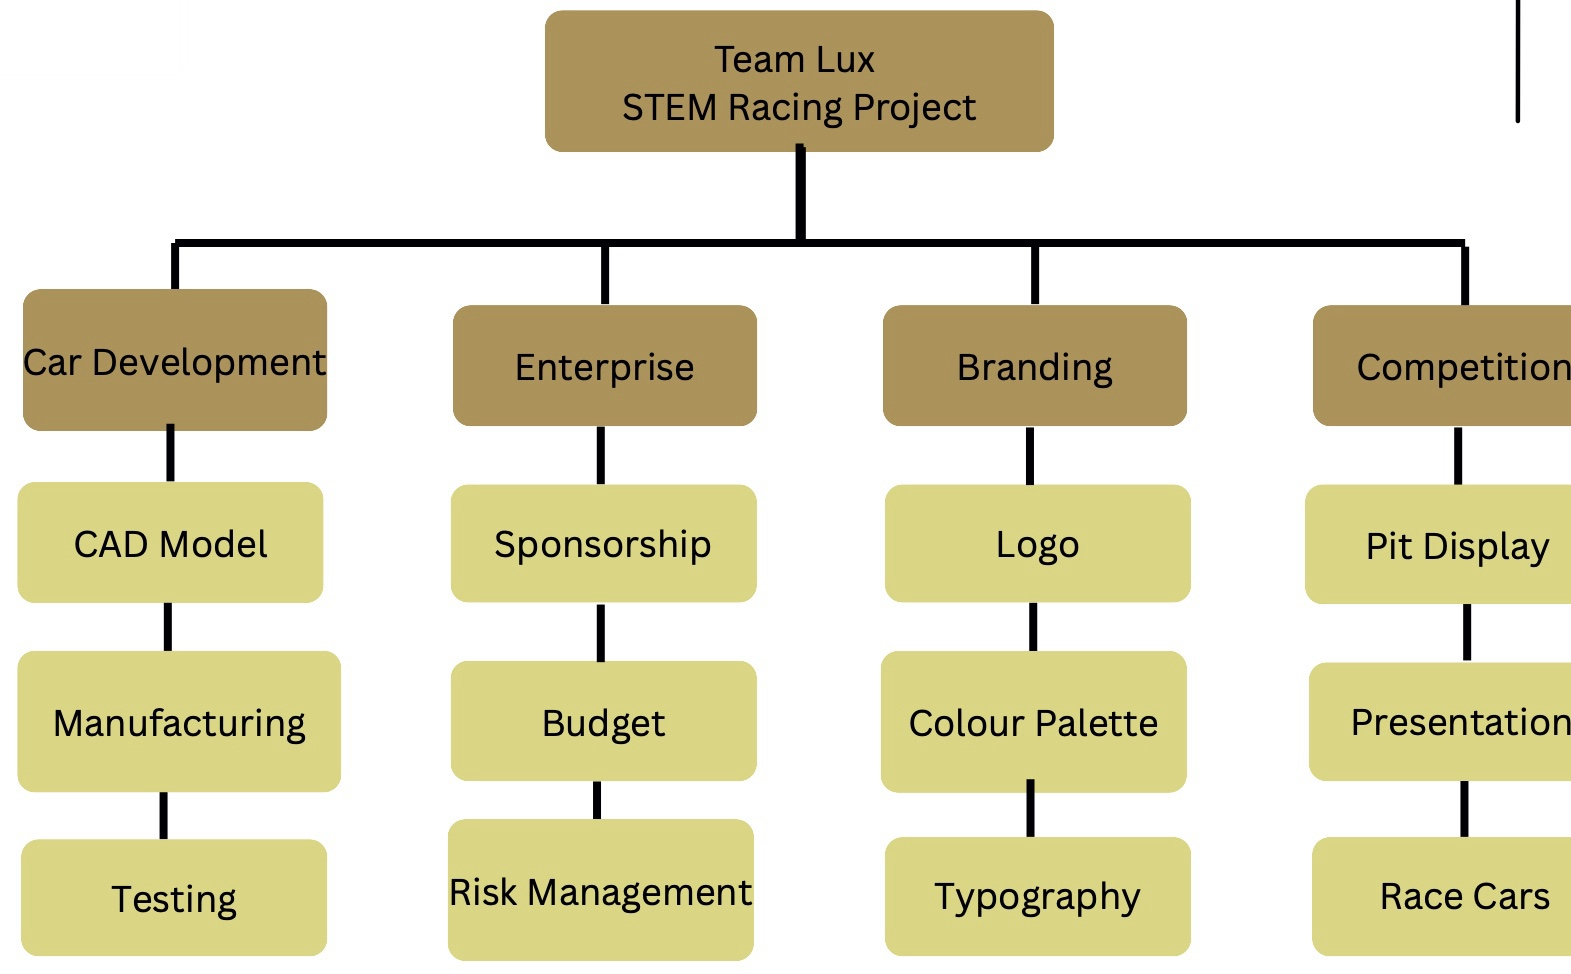
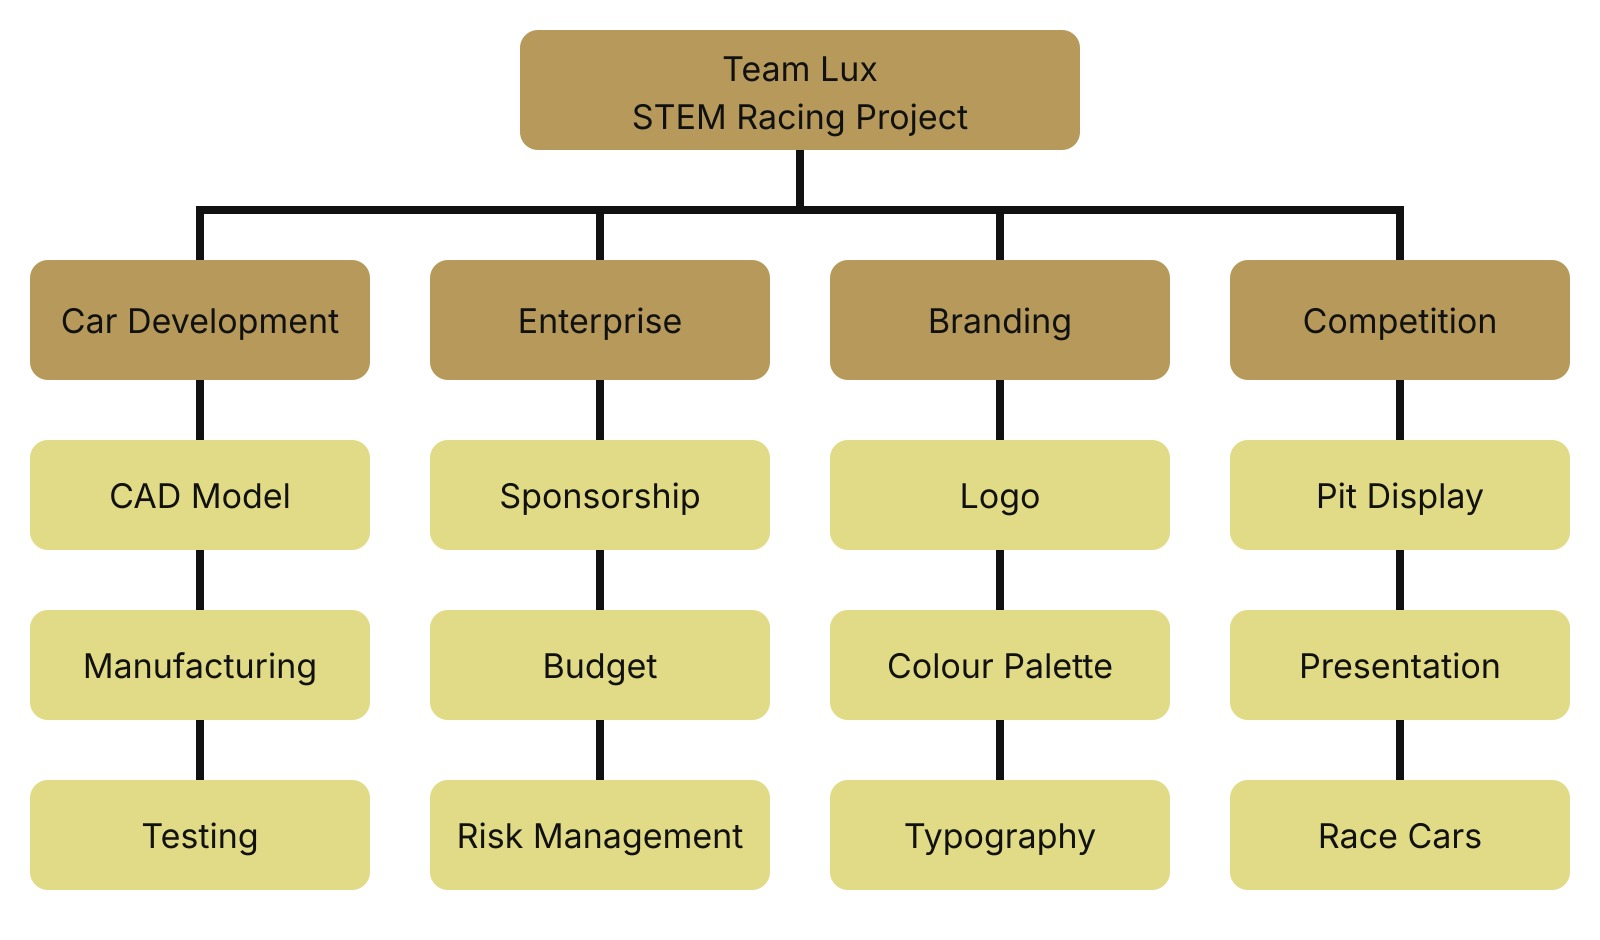
Use Nationals photos, enlarge enterprise figures, redraw work breakdown chart

diff --git a/src/styles/global.css b/src/styles/global.css
@@ -139,6 +139,12 @@ p { margin: 0 0 var(--s3); }
 .prose figure { margin: var(--s5) 0; }
 .prose figure img { width: 100%; border-radius: 6px; background: var(--hover); cursor: zoom-in; }
 .prose figcaption { margin-top: var(--s2); color: var(--muted); font-size: 0.8125rem; line-height: 1.5; }
+/* "[wide]" figures break out of the 640px column on desktop (see remark-figures.mjs). */
+@media (min-width: 700px) {
+  .prose figure.wide, .prose .gallery.wide {
+    width: min(1000px, 100vw - 48px); position: relative; left: 50%; transform: translateX(-50%);
+  }
+}
 .gallery { display: flex; gap: var(--s2); margin: var(--s5) 0; align-items: flex-start; }
 .gallery figure { margin: 0; min-width: 0; }
 @media (max-width: 640px) {

diff --git a/src/content/projects/stem-racing-enterprise.md b/src/content/projects/stem-racing-enterprise.md
@@ -46,8 +46,9 @@ Four work streams (Car Development, Enterprise, Branding, Competition), each bro
 
 ![Work breakdown structure: Team Lux project split into Car Development, Enterprise, Branding and Competition, each with three tasks](../../assets/projects/stem-racing/work-breakdown.jpg "Work breakdown structure.")
 
-![Gantt chart with eight phases from research and planning in November to final preparation in April](../../assets/projects/stem-racing/gantt.jpg "Season timeline: four cars across eight phases.")
-![RACI matrix assigning responsible, accountable, consulted and informed roles for each deliverable](../../assets/projects/stem-racing/raci-matrix.png "RACI matrix: one accountable owner per deliverable.")
+![Gantt chart with eight phases from research and planning in November to final preparation in April](../../assets/projects/stem-racing/gantt.jpg "[wide] Season timeline: four cars across eight phases.")
+
+![RACI matrix assigning responsible, accountable, consulted and informed roles for each deliverable](../../assets/projects/stem-racing/raci-matrix.png "[wide] RACI matrix: one accountable owner per deliverable.")
 
 ### Risk register
 
@@ -55,7 +56,7 @@ Nine risks rated by likelihood and impact. The top two, manufacturing delays and
 
 It was tested once: a rules mix-up ruined a regulation foam block with no spare in stock. Our title sponsor, GH Precision, sourced a replacement the same day, and we were cutting again within hours.
 
-![Risk register table of nine risks with ratings from 5 to 8 and preventative measures](../../assets/projects/stem-racing/risk-register.jpg "Risk register.")
+![Risk register table of nine risks with ratings from 5 to 8 and preventative measures](../../assets/projects/stem-racing/risk-register.jpg "[wide] Risk register.")
 
 ### Sponsorship: offering value, not asking for money
 
@@ -65,8 +66,8 @@ It was tested once: a rules mix-up ruined a regulation foam block with no spare 
 
 The result: $4,000 in cash and $7,600 in kind from more than 15 sponsors, plus software and CFD mentorship.
 
-![Bar chart: projected project cost of over 14,000 dollars before in-kind sponsorship and about 2,000 dollars after](../../assets/projects/stem-racing/in-kind-impact.jpg "Projected cost before and after in-kind sponsorship.")
-![Team Lux sponsorship package, website sponsor tiers and Instagram sponsor posts on laptop and phone mockups](../../assets/projects/stem-racing/sponsorship-materials.jpg "Sponsorship package, website tiers, and sponsor posts.")
+![Bar chart: projected project cost of over 14,000 dollars before in-kind sponsorship and about 2,000 dollars after](../../assets/projects/stem-racing/in-kind-impact.jpg "[wide] Projected cost before and after in-kind sponsorship.")
+![Team Lux sponsorship package, website sponsor tiers and Instagram sponsor posts on laptop and phone mockups](../../assets/projects/stem-racing/sponsorship-materials.jpg "[wide] Sponsorship package, website tiers, and sponsor posts.")
 
 ### Brand
 
@@ -79,8 +80,10 @@ The name comes from our school motto, *Lux numquam desit* ("the light will never
 
 At the 2026 National Championships: **1st in Pit Display**, **2nd in Project Management**, **3rd in Brand Identity**, and **4th overall**. Every deliverable was on time. The zero-waste pit display was built from repurposed workshop materials, and the lighthouse at the back is a model I designed and 3D printed.
 
-![Plaque reading 2026 National Championships Best Pit Display](../../assets/projects/stem-racing/sr-plaque.jpg "Best Pit Display, 2026.")
-![Team Lux pit display with design panels and a lighthouse model](../../assets/projects/stem-racing/sr-pit.jpg "The pit display, with the printed lighthouse at back left.")
+![Teams from across Canada seated together on the floor of the Nationals venue under an inflatable dome](../../assets/projects/stem-racing/nationals-group.webp "The finalist teams together at the 2026 National Championships.")
+
+![Plaque reading 2026 National Championships Best Pit Display](../../assets/projects/stem-racing/sr-plaque.jpg "[wide] Best Pit Display, 2026.")
+![Team Lux pit display with design panels and a lighthouse model](../../assets/projects/stem-racing/sr-pit.jpg "[wide] The pit display, with the printed lighthouse at back left.")
 
 ## What I learned
 

diff --git a/src/content/projects/stem-racing.md b/src/content/projects/stem-racing.md
@@ -94,8 +94,8 @@ Four cars across the season, ending with two matched cars for Nationals. Simulat
 
 ![Three-quarter render of the final car from above and behind](../../assets/projects/stem-racing/render-three-quarter.jpg "Final car, rendered.")
 
-![The car on the start line under the timing gate](../../assets/projects/stem-racing/sr-startline.jpg "On the start line at Nationals.")
-![The finished Team Lux race car on a workbench: pale machined foam body, grey 3D-printed wings and wheels, red halo](../../assets/projects/stem-racing/sr-car.jpg "The finished car: CNC-machined foam body, 3D-printed wings, wheels, and halo.")
+![Team Lux's gold race car in the start box beside the start gate, with the F1 in Schools logo on its screen](../../assets/projects/stem-racing/sr-nationals-gate.jpg "In the start box at Nationals.")
+![The gold Team Lux car and an opposing purple car on the track under the start gate](../../assets/projects/stem-racing/sr-nationals-start.jpg "Team Lux (gold, left) on the start gate at Nationals.")
 
 ## What I learned
 
